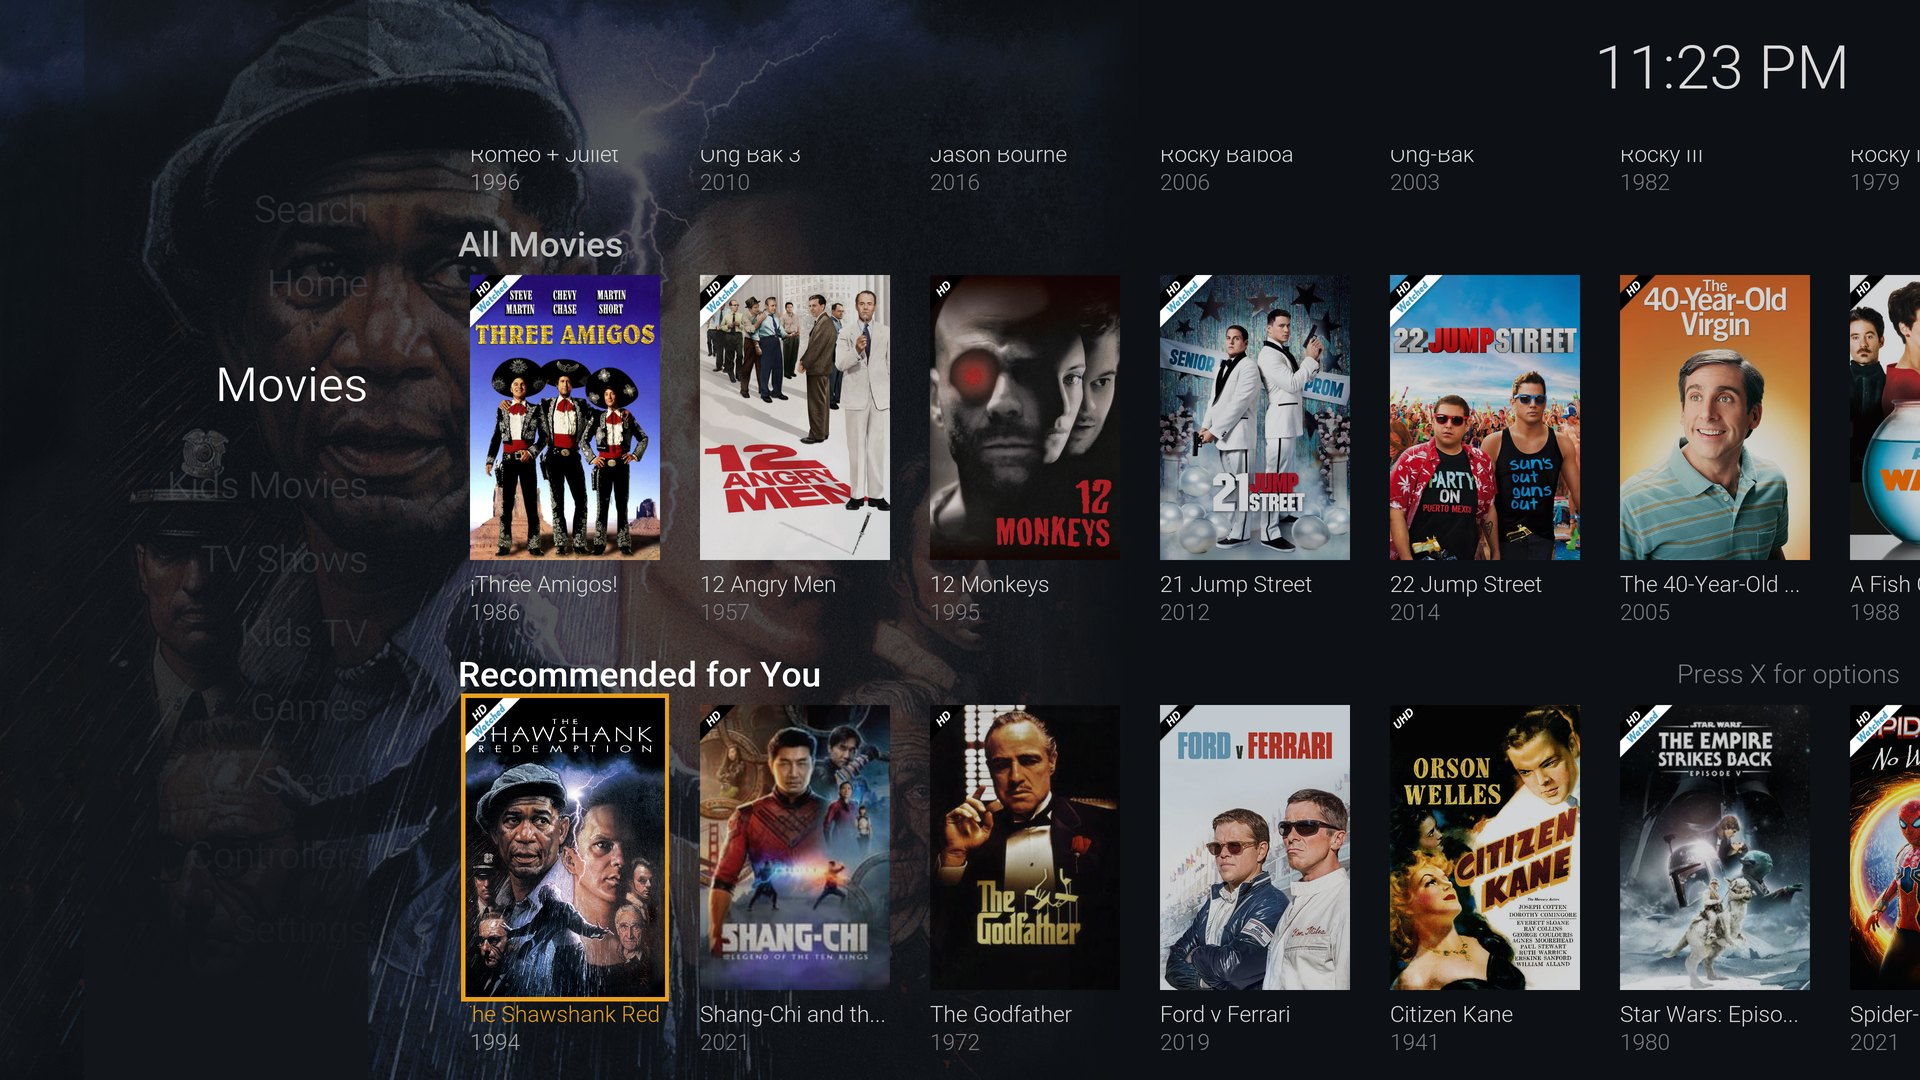
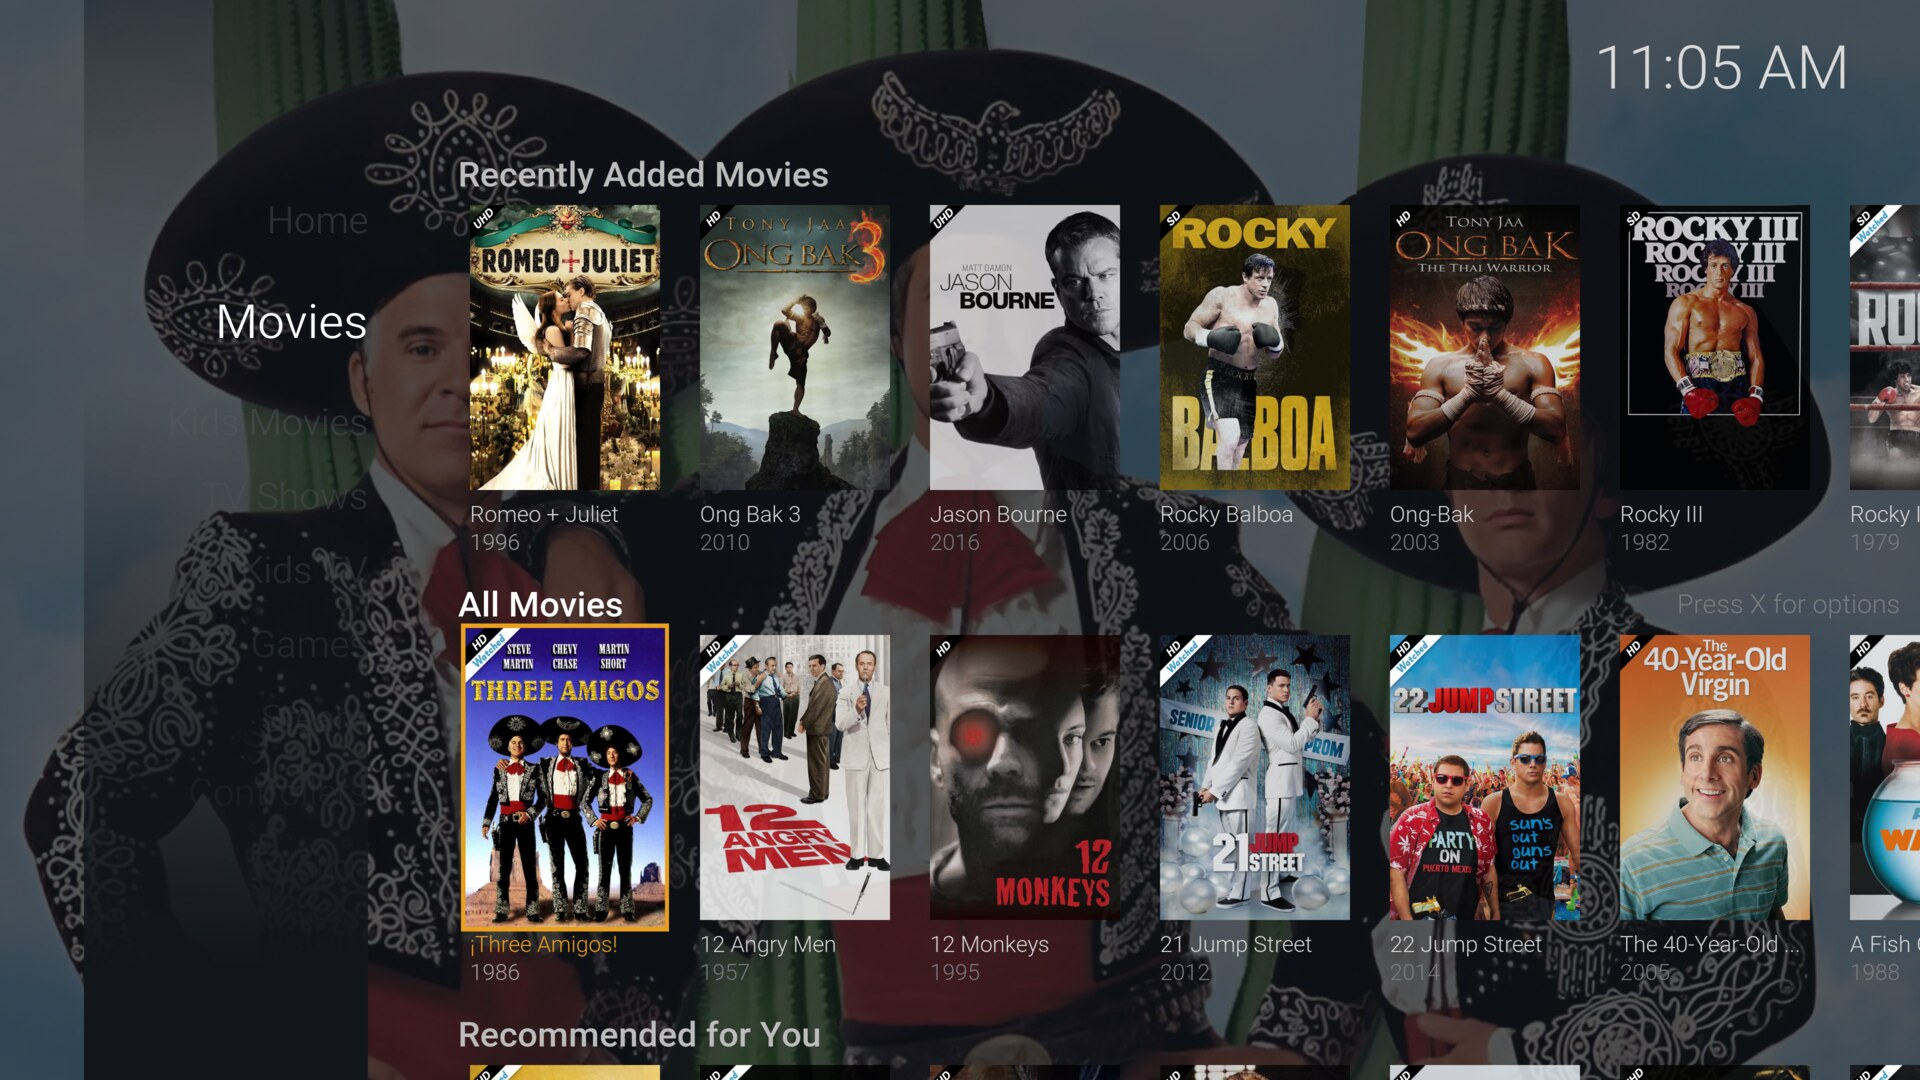
README: new screenshots (Movies poster grid, current menu) and features
Claude-Session: https://claude.ai/code/session_018bpCGEJejTRsEC3GEBjPE6

diff --git a/README.md b/README.md
@@ -7,12 +7,15 @@ A TV-first skin built for a remote or game controller:
   Recommended…), a heading above each, up/down between rows, sideways inside a row.
 - **Dimmed backdrop** of the selected title behind the rows, a clock and a greeting.
 - **Continue Watching opens the next episode.** Press the context-menu button (X on an Xbox pad) on any item
-  for options such as *Reset resume position* to remove it from Continue Watching.
-- Film pages open on the **play button**; Rotten Tomatoes audience score is shown when your library has it.
+  for options such as *Remove from continue watching*.
+- Film pages open on the **play button**, with the Rotten Tomatoes critics (tomato) and audience (popcorn)
+  scores shown separately when your library has them.
 - Titles with no artwork show their name on the card instead of a blank tile.
+- A **System** menu for power options (reboot, shut down, screensaver) and Settings, and a picture
+  slideshow as the screensaver when a wallpaper folder is set.
 
 ![Movies](resources/screenshot-01.jpg)
-![Grid](resources/screenshot-02.jpg)
+![Movies library as a poster grid](resources/screenshot-02.jpg)
 ![Film page](resources/screenshot-03.jpg)
 ![Kids TV](resources/screenshot-04.jpg)
 
